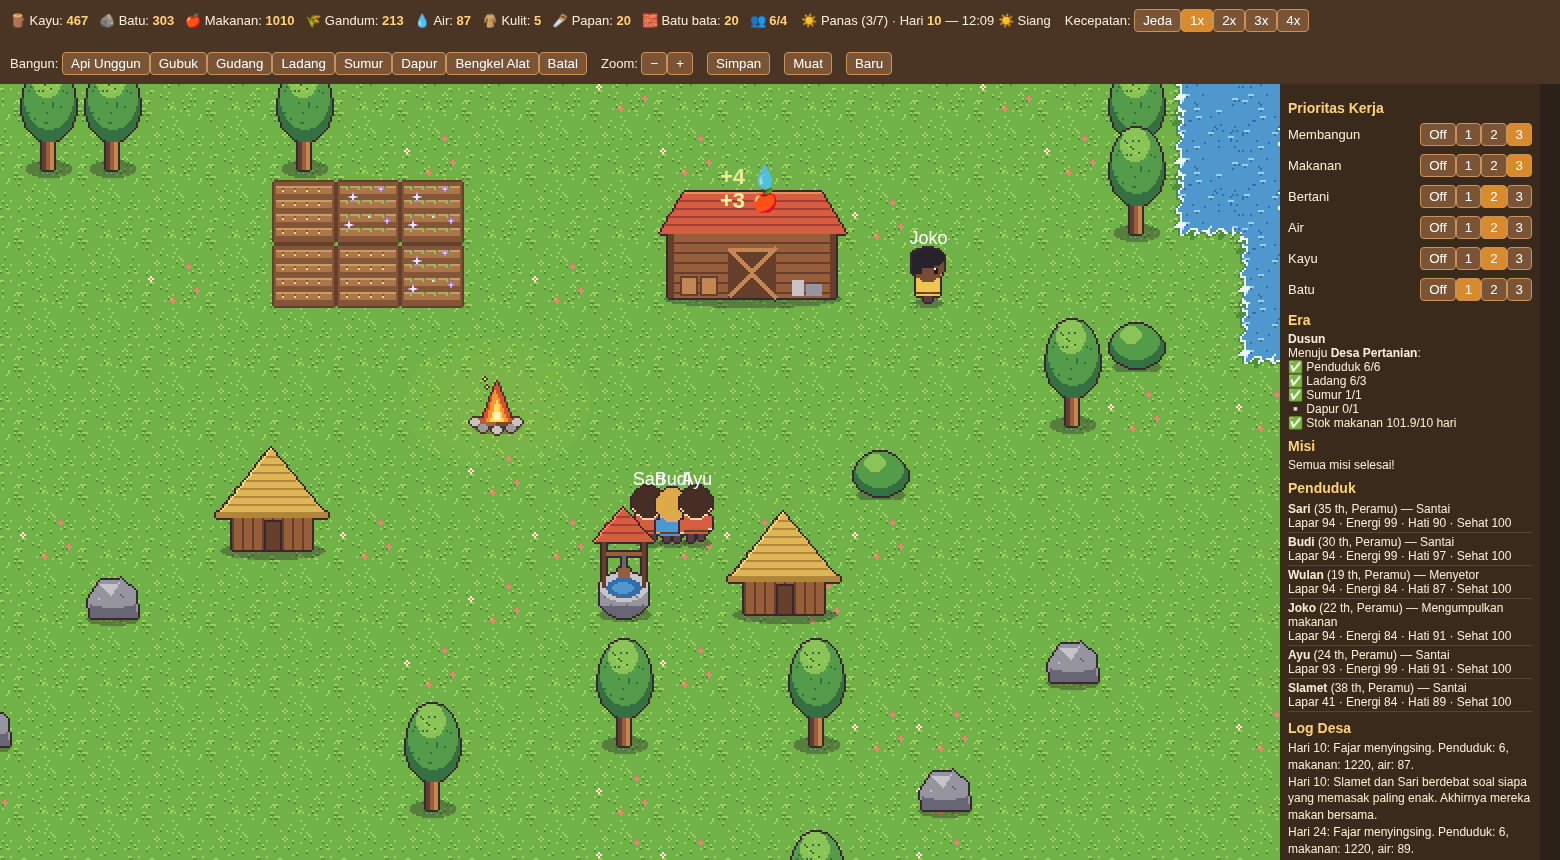
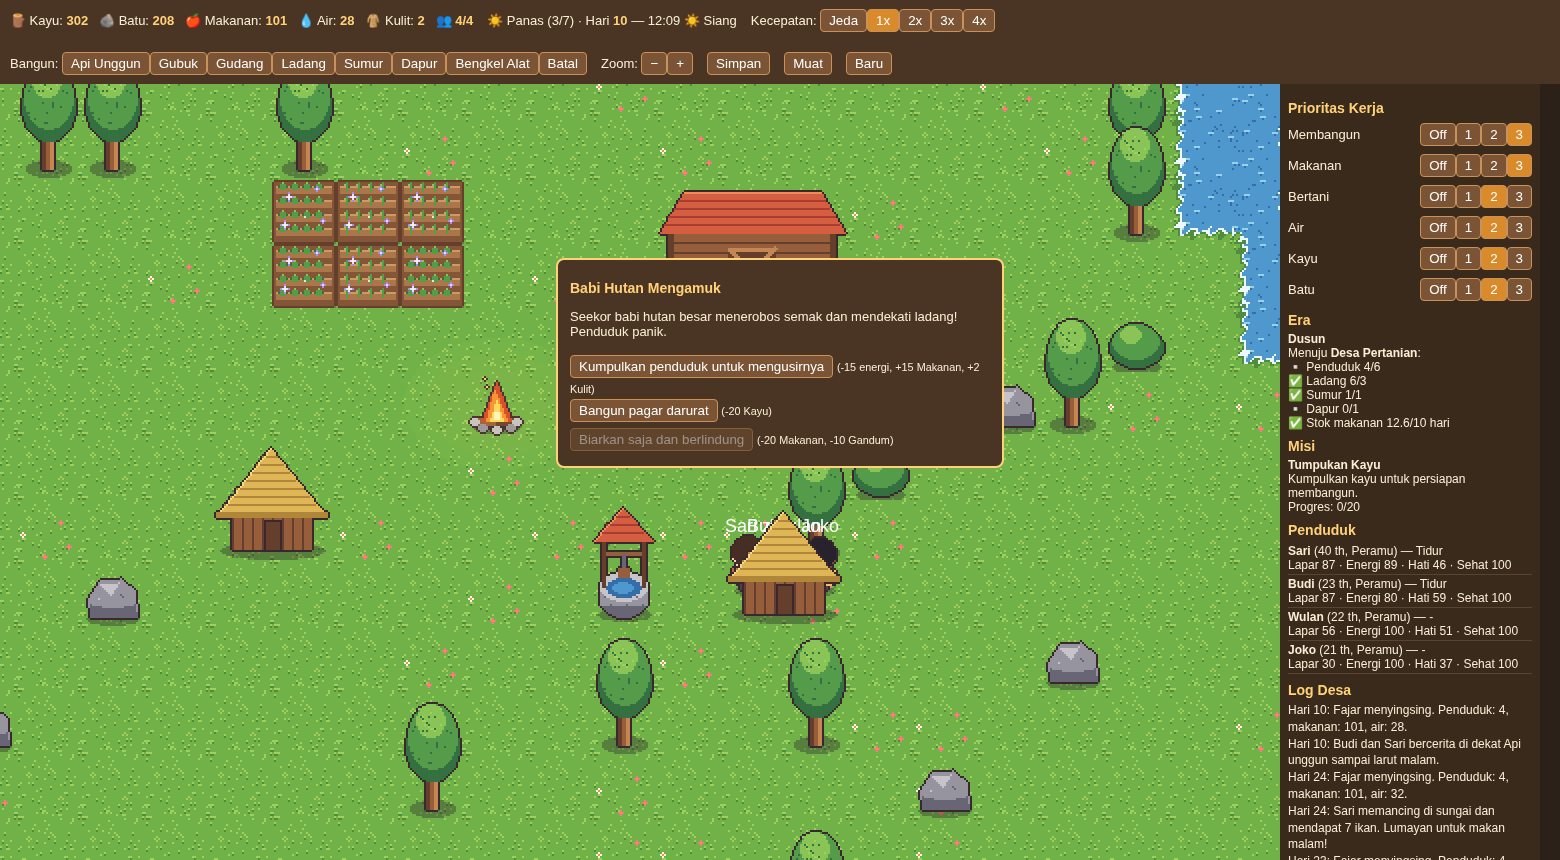
Rapikan struktur, tes, balancing, dan perbaikan event

diff --git a/tests/balance-sim.test.js b/tests/balance-sim.test.js
@@ -7,22 +7,31 @@ const RUNS = +process.argv[2] || 3;
   for (let run = 0; run < RUNS; run++) {
     const p = await b.newPage(); p.on('pageerror', e => errs.push(String(e))); p.on('console', m => m.type() === 'error' && errs.push(m.text()));
     await p.goto(process.env.GAME_URL || 'http://localhost:8080/'); await p.evaluate(() => localStorage.clear()); await p.reload(); await p.waitForTimeout(800);
-    results.push(await p.evaluate(() => {
+    const nonFood = run === 1 || run === 3;
+    results.push(await p.evaluate((nonFood) => {
       const S = DESA.state, C = CONFIG, D = DESA;
       const plan = ['apiunggun', 'gudang', 'gubuk', 'ladang', 'ladang', 'sumur', 'gubuk', 'ladang', 'ladang'];
       const tryBuild = () => { const t = plan[0]; if (!t || !D.canAfford(C.BUILDINGS[t].cost) || S.buildings.some(b => !b.done)) return;
         for (let r = 1; r < 12; r++) for (let dy = -r; dy <= r; dy++) for (let dx = -r; dx <= r; dx++) {
           const x = C.CAMP.x + dx * 2, y = C.CAMP.y + dy * 2; if (t !== 'ladang' && Math.abs(dx) + Math.abs(dy) < 2) continue;
           if (D.validSpot(t, x, y)) { for (const [k, n] of Object.entries(C.BUILDINGS[t].cost)) S.res[k] -= n; D.addBuilding(t, x, y, false); plan.shift(); return; } } };
-      const curve = {}; let last = 0;
-      while (S.day <= 24) { D.step(0.1); if (S.event) { const e = [...document.querySelectorAll('[data-ev]')].find(x => !x.disabled); e && e.click(); }
+      const curve = {}; let last = 0, hut2 = null, d24 = null;
+      while (S.day <= 28) { D.step(0.1); if (S.event) { const pref = nonFood && { pedagang_keliling: 2, panen_raya: 1 }[S.event];
+          const btns = [...document.querySelectorAll('[data-ev]')]; const e = (pref != null && btns[pref] && !btns[pref].disabled) ? btns[pref] : btns.find(x => !x.disabled); e && e.click(); }
+        if (!hut2 && S.buildings.filter(b => b.type === 'gubuk' && b.done).length >= 2) hut2 = S.day;
+        if (S.day === 24 && !d24) d24 = { food: Math.floor(S.res.makanan + S.res.gandum), batu: Math.floor(S.res.batu), pop: S.villagers.length };
         if (S.day !== last) { last = S.day; tryBuild(); curve[S.day] = { food: Math.floor(S.res.makanan + S.res.gandum), pop: S.villagers.length, air: Math.floor(S.res.air) }; } }
-      return { curve: [1, 7, 14, 21, 24].map(d => [d, curve[d]]), final: Object.fromEntries(Object.entries(S.res).map(([k, v]) => [k, Math.floor(v)])),
+      return { nonFood, d24, hut2, events: S.eventCount || {}, curve: [1, 7, 14, 21, 24].map(d => [d, curve[d]]), final: Object.fromEntries(Object.entries(S.res).map(([k, v]) => [k, Math.floor(v)])),
         pop: S.villagers.length, deaths: S.log.filter(l => l.includes('💀')).length, built: S.buildings.filter(b => b.done).map(b => b.type).join(','),
         harvests: S.log.filter(l => l.includes('memanen')).length };
-    }));
+    }, nonFood));
     await p.close();
   }
-  console.log(JSON.stringify(results, null, 0).replace(/\},\{"curve"/g, '},\n{"curve"'), errs.length ? 'ERR ' + errs : 'no errors');
+  results.forEach((r, i) => console.log(`run ${i + 1}${r.nonFood ? ' (non-food)' : ''}: ` + r.curve.map(([d, c]) => `d${d}=${c ? c.food : '-'}`).join(' ') +
+    ` | d24 batu=${r.d24.batu} pop=${r.d24.pop} | gubuk ke-2 hari ${r.hut2 ?? '-'} | panen_raya=${r.events.panen_raya || 0} | events=${JSON.stringify(r.events)}`));
+  const f = results.map(r => r.d24.food).sort((a, b) => a - b), med = f[Math.floor(f.length / 2)];
+  const stoneOk = results.filter(r => r.d24.batu >= 5 && r.hut2 && r.hut2 < 24).length;
+  console.log(`median food d24=${med} (25-50: ${med >= 25 && med <= 50}), max=${f[f.length - 1]} (<80: ${f[f.length - 1] < 80}), stone+hut2 runs=${stoneOk}/5 (>=3: ${stoneOk >= 3}), panen_raya<=1 before d28 all: ${results.every(r => (r.events.panen_raya || 0) <= 1)}`);
+  console.log(errs.length ? 'ERR ' + errs : 'no errors');
   if (errs.length) process.exitCode = 1; await b.close();
 })();

diff --git a/balance.js b/balance.js
@@ -5,10 +5,10 @@ window.CONFIG = {
   RIVER_X: 34, BRIDGE_ROWS: [20, 33], // baris jembatan yang melintasi sungai
   DAY_LENGTH_SEC: 120, NIGHT_START: 0.75, NIGHT_END: 0.25,
   START_VILLAGERS: 2,
-  START_RES: { kayu: 12, batu: 5, makanan: 10, gandum: 0, air: 8, alat: 0, kulit: 0, papan: 0, batu_bata: 0 },
+  START_RES: { kayu: 12, batu: 8, makanan: 10, gandum: 0, air: 8, alat: 0, kulit: 0, papan: 0, batu_bata: 0 },
   VILLAGER_SPEED: 2.5,
-  CARRY: { kayu: 5, batu: 4, makanan: 1 },        // hasil per angkutan
-  GATHER_TIME: { kayu: 25, batu: 20, makanan: 14 }, // tebang 20-30s, buah 8-12s
+  CARRY: { kayu: 5, batu: 5, makanan: 1 },        // hasil per angkutan
+  GATHER_TIME: { kayu: 25, batu: 16, makanan: 14 }, // tebang 20-30s, buah 8-12s
   NODE_AMOUNT: { kayu: 25, batu: 40, makanan: 6 },
   BUSH_REGROW_SEC: 360,
   HUNGER_PER_DAY: 25, ENERGY_PER_DAY: 20,
@@ -56,10 +56,20 @@ window.CONFIG = {
   SKILL_GAIN: 0.02, // skill naik per angkutan; efek: waktu kerja / (1+skill*0.5)
   NAMES: ['Sari','Budi','Dewi','Agus','Rina','Joko','Wati','Eko','Lina','Hadi','Tari','Yudi','Ayu','Bayu'],
   WATER_SURPLUS_DAYS: 8, // stok air >= ini (hari) -> kerja air turun prioritas
-  RES_SOFT_CAP: { kayu: 150, batu: 100 }, // per 2 penduduk; di atas ini kerja tsb turun prioritas
+  RES_SOFT_CAP: { kayu: 120, batu: 35 }, // per 2 penduduk; di atas ini kerja tsb turun prioritas
+  // Aturan event acak: bobot (default 1, bisa juga 'bobot' di TEKS-GAME.json; config menang), musim yang diizinkan,
+  // maksPerTahun (direset tiap musim Semi), cooldownHari.
+  EVENT_RULES: {
+    panen_raya:        { bobot: 0.35, musim: ['panas', 'gugur'], maksPerTahun: 1 },
+    pedagang_keliling: { bobot: 0.7, cooldownHari: 8 },
+    badai:             { bobot: 1.1 },
+    hewan_buas:        { bobot: 1.0 },
+    wabah:             { bobot: 1.2 },
+    pendatang:         { bobot: 0.8 },
+  },
   MAX_LOG: 40, MAX_NOTES: 6,
   FOOD_SURPLUS_FACTOR: 1.2, FOOD_SURPLUS_PENALTY: 25, // jika stok makanan melimpah, kerja makanan turun prioritas
-  DEFAULT_PRIO: { bangun: 3, makanan: 3, bertani: 2, air: 2, kayu: 2, batu: 1 }, // 0=mati .. 3=tinggi
-  EVENT_MIN_DAY: 2, EVENT_CHANCE_PER_DAY: 0.3, FLAVOR_LOG_PER_DAY: 1,
+  DEFAULT_PRIO: { bangun: 3, makanan: 3, bertani: 2, air: 2, kayu: 2, batu: 2 }, // 0=mati .. 3=tinggi
+  EVENT_MIN_DAY: 3, EVENT_CHANCE_PER_DAY: 0.18, FLAVOR_LOG_PER_DAY: 1,
   START_BUILDINGS: [], // contoh: [['gudang', 16, 10]]  (quest awal meminta pemain membangun Api Unggun/Gudang sendiri)
 };

diff --git a/game.js b/game.js
@@ -243,8 +243,20 @@ function applyEffects(ef, src) {
     else console.info(`[efek] kunci "${k}" belum didukung (${src}), diabaikan.`);
   }
 }
+// pilih event berbobot sesuai C.EVENT_RULES (musim, maks per tahun, cooldown)
+function eventAllowed(e) { const r = (C.EVENT_RULES || {})[e.id] || {}, year = Math.floor((S.day - 1) / (C.SEASON_DAYS * C.SEASONS.length));
+  if (r.musim && !r.musim.includes(season())) return false;
+  if (r.maksPerTahun && ((S.eventYearCount || {})[e.id + '@' + year] || 0) >= r.maksPerTahun) return false;
+  if (r.cooldownHari && S.day - ((S.eventLastDay || {})[e.id] ?? -999) < r.cooldownHari) return false;
+  return true; }
+const eventWeight = e => { const r = (C.EVENT_RULES || {})[e.id]; return r && r.bobot != null ? r.bobot : e.bobot ?? 1; };
 function maybeEvent() { if (!TEXT || !TEXT.event_acak || S.day < C.EVENT_MIN_DAY || Math.random() > C.EVENT_CHANCE_PER_DAY) return;
-  S.event = pick(TEXT.event_acak).id; showEvent(); }
+  const pool = TEXT.event_acak.filter(eventAllowed), total = pool.reduce((a, e) => a + eventWeight(e), 0); if (!total) return;
+  let r = Math.random() * total, ev = pool[pool.length - 1]; for (const e of pool) { r -= eventWeight(e); if (r <= 0) { ev = e; break; } }
+  const year = Math.floor((S.day - 1) / (C.SEASON_DAYS * C.SEASONS.length));
+  S.eventLastDay = S.eventLastDay || {}; S.eventYearCount = S.eventYearCount || {}; S.eventCount = S.eventCount || {};
+  S.eventLastDay[ev.id] = S.day; S.eventYearCount[ev.id + '@' + year] = (S.eventYearCount[ev.id + '@' + year] || 0) + 1; S.eventCount[ev.id] = (S.eventCount[ev.id] || 0) + 1;
+  S.event = ev.id; showEvent(); }
 const addsPop = ef => (ef && ef.penduduk) > 0;
 const housingOk = ef => !addsPop(ef) || capacity() >= S.villagers.length + ef.penduduk;
 function showEvent() { const e = TEXT && TEXT.event_acak.find(x => x.id === S.event); if (!e) { S.event = null; return; }

diff --git a/README.md b/README.md
@@ -1,0 +1,43 @@
+# Desa Mandiri
+
+Game manajemen desa berbasis web (HTML5 Canvas + JavaScript murni, tanpa build/framework). Pemain berperan sebagai kepala desa: penduduk bekerja **otomatis** (AI berbasis kebutuhan lapar/energi/air/kesehatan + prioritas desa). Pemain hanya mengatur prioritas kerja, menaruh rencana bangunan, dan merespons event. Fitur: peta tile 32x32 dengan sungai & jembatan, pathfinding A*, siklus siang/malam, 4 musim (musim dingin: tanaman berhenti tumbuh), ladang, sumur, era (Perkemahan → Dusun → Desa Pertanian → Kota Kecil), event acak, misi, tutorial, kamera (geser/zoom), kecepatan jeda/1x/2x/3x/4x, simpan/muat (localStorage). Semua teks UI dalam Bahasa Indonesia.
+
+## Menjalankan
+Game memuat `TEKS-GAME.json` dan aset lewat `fetch`, jadi harus dijalankan dari server HTTP (bukan `file://`):
+```bash
+cd village-game
+python3 -m http.server 8080
+# buka http://localhost:8080
+```
+Kontrol: seret peta / WASD / panah untuk geser, roda mouse atau tombol −/+ untuk zoom, klik tombol bangunan lalu klik peta untuk menaruh rencana (klik kanan = batal).
+
+## Tes (Playwright)
+Server harus berjalan di `http://localhost:8080` (atau set `GAME_URL`).
+```bash
+cd tests
+npm install
+npm run setup     # unduh Chromium untuk Playwright
+npm test          # smoke, pathfinding+kamera, musim+ladang, event pendatang
+node balance-sim.test.js 5   # simulasi balancing 24 hari (5 kali), cetak kurva stok makanan
+```
+Tes gagal (exit code 1) bila ada error di konsol. Screenshot disimpan di `docs/screenshots/`.
+
+## Struktur file
+```
+index.html          Tata letak & UI
+balance.js          SEMUA angka balancing (CONFIG) — ubah di sini untuk tuning
+assets.js           Peta aset tunggal (ASSETS): path sprite, ukuran frame, animasi, warna placeholder
+game.js             Simulasi, AI penduduk, pathfinding, render, UI, simpan/muat
+TEKS-GAME.json      Teks game: nama penduduk, log harian, event, tutorial, misi (dimuat via fetch)
+assets/             Sprite pixel art (lihat assets/README.md & manifest.json)
+docs/               KONSEP.md (konsep), RISET-MEKANIK.md (riset mekanik & balancing), screenshots/
+tests/              Tes Playwright + package.json (devDependency: playwright)
+tools/              Skrip pembuat teks
+```
+
+## Tuning
+- **`balance.js`**: laju lapar/energi, waktu & hasil kerja, biaya bangunan (`BUILDINGS`), syarat era (`ERAS`), musim, ladang (`FIELD`), air (`WATER`), syarat penduduk baru (`SPAWN`), peluang event, prioritas awal (`DEFAULT_PRIO`), ukuran peta/kamera.
+- **`assets.js`**: ganti/isi `img` untuk menukar sprite. Jika gambar tidak ada, game memakai bentuk/warna placeholder. Varian `*_dingin` (musim dingin) dan `*_malam` (jendela menyala) dipakai otomatis bila tersedia.
+- **`TEKS-GAME.json`**: kunci efek event/hadiah misi yang belum didukung akan dicatat di konsol dan diabaikan.
+
+Catatan: simpanan dari versi peta lama (40x25) diabaikan otomatis.
